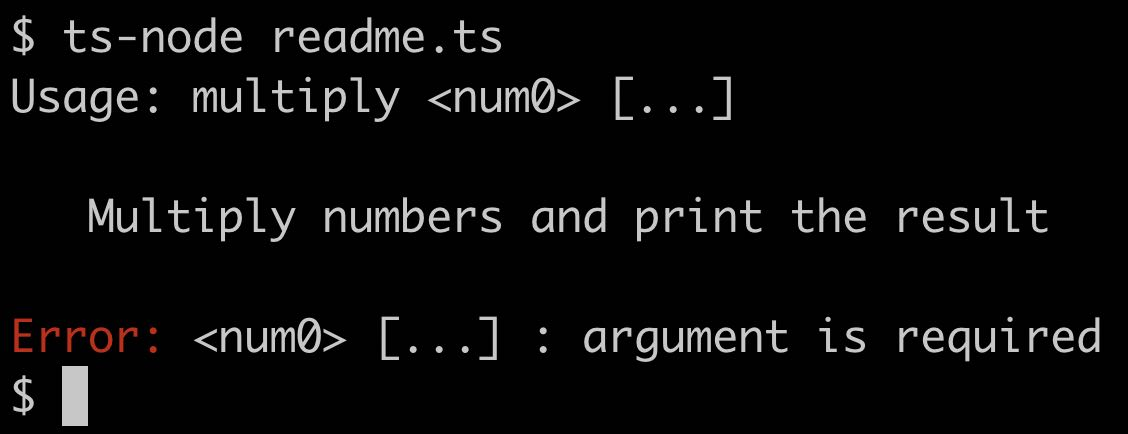
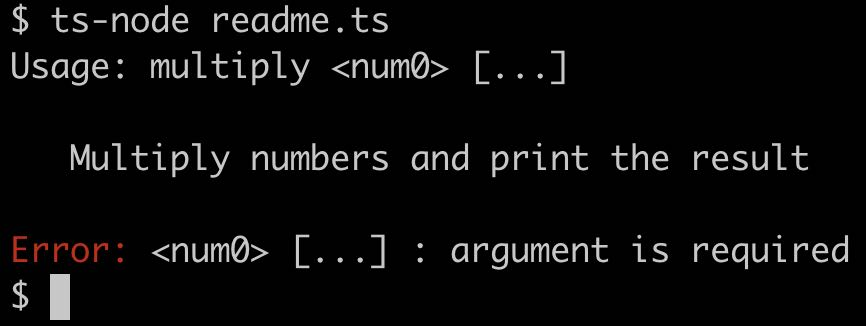
Put screenshots into readme

diff --git a/src/examples/__tests__/readme.test.ts b/src/examples/__tests__/readme.test.ts
@@ -7,7 +7,4 @@ describe('readme example', () => {
   it('multiplies the provided numbers together', async () => {
     expect(await cli('1', '2', '3')).toBe(6);
   });
-  it('squares the result if --squared is passed', async () => {
-    expect(await cli('1', '2', '3', '--squared')).toBe(36);
-  });
 });

diff --git a/readme.md b/readme.md
@@ -2,6 +2,8 @@
 
 A framework for building command-line interfaces (CLIs) in Node.js. This package includes runtime JavaScript files suitable for Node.js >=10 as well as the corresponding TypeScript type declarations.
 
+API Documentation: [https://cli.carnesen.com/](https://cli.carnesen.com/)
+
 ## Usage
 
 ```
@@ -9,36 +11,18 @@ npm install @carnesen/cli
 ```
 
 Here is a CLI that does some basic arithmetic:
-```ts
-// readme.ts
-import {
-  CliCommand,
-  CliNumberArrayArgParser,
-  runCliAndExit,
-} from '@carnesen/cli';
 
-export const root = CliCommand({
-  name: 'multiply',
-  description: 'Multiply numbers and print the result',
-  positionalArgParser: CliNumberArrayArgParser({ required: true }),
-  action(args) {
-    return args.reduce((a, b) => a * b, 1);
-  },
-});
-
-if (require.main === module) {
-  runCliAndExit(root);
-}
-```
+[![TypeScript code](media/readme-ts.jpg)](src/examples/readme.ts)
 
 Here's how that behaves as a CLI.
-![Usage: multiply <num0> ... Multiply numbers and print the result Error: <num0> ... : argument is required](media/readme-usage.jpg)
-With arguments:
-```
-$ ts-node readme.ts 1 2 3
-6
-```
 
+![ts-node readme.ts newline Usage: multiply <num0> ... Multiply numbers and print the result Error: <num0> ... : argument is required](media/readme-usage.jpg)
+
+With arguments:
+
+![ts-node readme.ts 1 2 3 newline 6](media/readme-usage-2.jpg)
+
+Check out [src/examples](src/examples) for more!
 ## Structure
 The general structure of a `@carnesen/cli` is:
 ```
@@ -47,7 +31,7 @@ The general structure of a `@carnesen/cli` is:
 Everything after `<program>` is optional.
 
 ## More information
-This library has a couple dozen unit tests with >95% coverage. If you want to see more examples of how things works, check out the `.test.ts` files in the [src](src) directory. Also check out [src/examples](src/examples). If you encounter any bugs or have any questions or feature requests, please don't hesitate to file an issue or submit a pull request on this project's repository on GitHub.
+If you encounter any bugs, questions, or feature requests, please don't hesitate to file an issue or submit a pull request on this project's repository on GitHub.
 
 ## Related
 - [@carnesen/run-and-exit](https://github.com/carnesen/run-and-exit): Run a function, `console.log` the result, and `process.exit`
